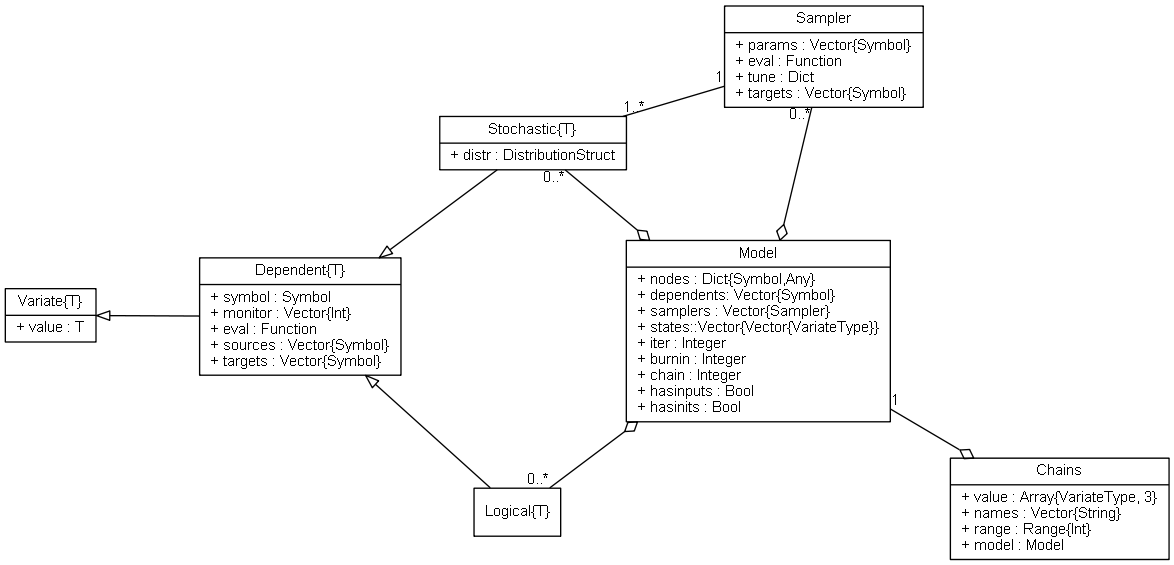
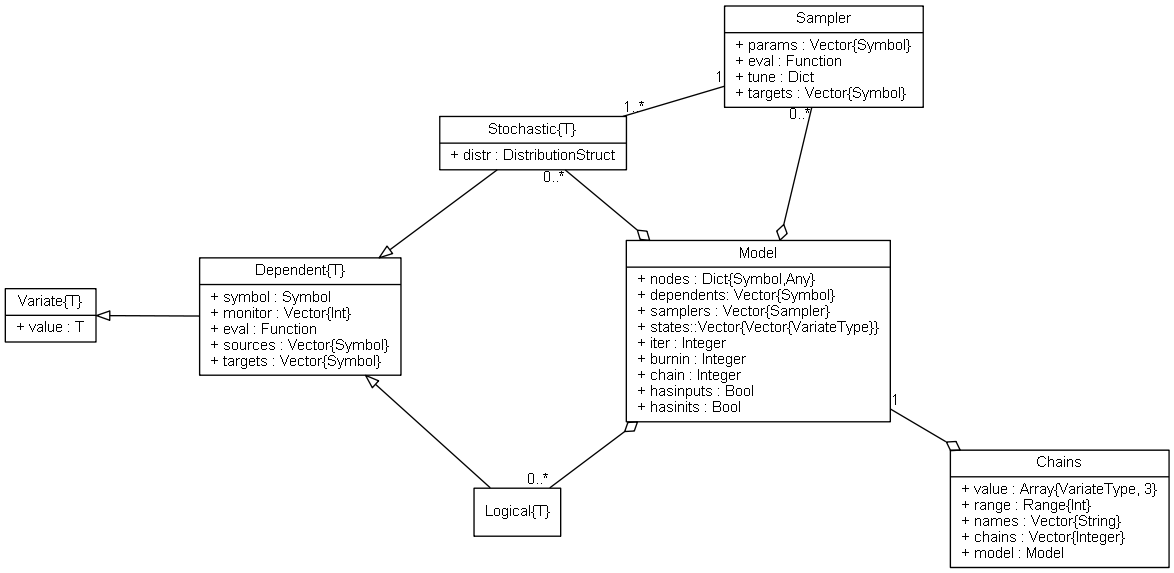
Add chains field to Chains type.

diff --git a/doc/mcmc/chains.rst b/doc/mcmc/chains.rst
@@ -16,25 +16,30 @@ Fields
 ^^^^^^
 
 * ``value::Array{VariateType,3}`` : a 3-dimensional array of sampled values whose first, second, and third dimensions index the iterations, parameter elements, and runs of an MCMC sampler, respectively.
-* ``names::Vector{String}`` : names assigned to the parameter elements.
 * ``range::Range{Int}`` : range of iterations stored in the rows of the ``value`` array.
+* ``names::Vector{String}`` : names assigned to the parameter elements.
+* ``chains::Vector{Integer}`` : indices to the MCMC runs.
 * ``model::Model`` : the model from which the sampled values were generated.
 
 Constructors
 ^^^^^^^^^^^^
 
 .. function:: Chains(iters::Integer, params::Integer; \
-			    start::Integer=1, thin::Integer=1, chains::Integer=1, \
-			    names::Vector{T<:String}=Array(String,0), model::Model=Model())
-              Chains(value::Array{T<:Real,3}; \
-			    start::Integer=1, thin::Integer=1, names::Vector{U<:String}=Array(String,0), \
-			    model::Model=Model())
+				start::Integer=1, thin::Integer=1, chains::Integer=1, \
+				names::Vector{T<:String}=Array(String,0), model::Model=Model())
+			  Chains(value::Array{T<:Real,3}; \
+				start::Integer=1, thin::Integer=1, \
+				names::Vector{U<:String}=Array(String,0), \
+				chains::Vector{V<:Integer}=Array(Integer, 0), \
+				model::Model=Model())
 			  Chains(value::Matrix{T<:Real}; \
-			    start::Integer=1, thin::Integer=1, names::Vector{U<:String}=Array(String,0), \
-			    model::Model=Model())
+				start::Integer=1, thin::Integer=1, \
+				names::Vector{U<:String}=Array(String,0), \
+				chains::Vector{V<:Integer}=Array(Integer, 0), \
+				model::Model=Model())
 			  Chains(value::Vector{T<:Real}; \
-			    start::Integer=1, thin::Integer=1, names::String="Param1", \
-			    model::Model=Model())
+				start::Integer=1, thin::Integer=1, names::String="Param1", \
+				chains::Integer=1, model::Model=Model())
 		
 	Construct a ``Chains`` object that stores MCMC sampler output.
 	
@@ -45,7 +50,7 @@ Constructors
 		* ``value`` : an array whose first, second (optional), and third (optional) dimensions index outputted iterations, parameter elements, and runs of an MCMC sampler, respectively.
 		* ``start`` : number of the first iteration to be stored.
 		* ``thin`` : number of steps between consecutive iterations to be stored.
-		* ``chains`` : number of simulation runs for which to store output.
+		* ``chains`` : number of simulation runs for which to store output, or a vector of indices to the runs (default: 1, 2, ...).
 		* ``names`` : names to assign to the parameter elements (default: ``"Param1"``, ``"Param2"``, ...).
 		* ``model`` : the model for which the simulation was run.
 		

diff --git a/doc/tutorial.rst b/doc/tutorial.rst
@@ -382,7 +382,7 @@ Once convergence has been assessed, sample statistics may be computed on the MCM
 
 	Iterations = 252:10000
 	Thinning interval = 2
-	Number of chains = 3
+	Chains = 1,2,3
 	Samples per chain = 4875
 
 	Empirical Posterior Estimates:
@@ -461,7 +461,7 @@ Additionally, sampler output can be subsetted to perform posterior inference on 
 	
 	Iterations = 1000:5000
 	Thinning interval = 2
-	Number of chains = 3
+	Chains = 1,2,3
 	Samples per chain = 2001
 
 	Empirical Posterior Estimates:
@@ -493,7 +493,7 @@ Convergence diagnostics or posterior summaries may indicate that additional draw
 
 	Iterations = 252:15000
 	Thinning interval = 2
-	Number of chains = 3
+	Chains = 1,2,3
 	Samples per chain = 7375
 
 	Empirical Posterior Estimates:
